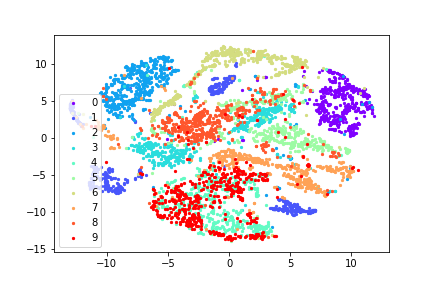
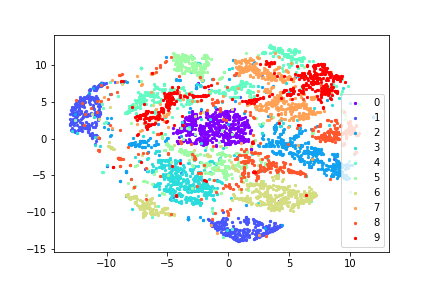
update

diff --git a/README.md b/README.md
@@ -1,5 +1,5 @@
 # Variational Autoencoder
-Implement [Auto-Encoding Variational Bayes](https://arxiv.org/pdf/1312.6114.pdf), you can see more detial in the paper
+Implement [Adversarial Autoencoder](https://arxiv.org/pdf/1511.05644.pdf), you can see more detial in the paper
 ## Setting
 - Tensorflow 0.11
 - MNIST Dataset
@@ -7,9 +7,8 @@ Implement [Auto-Encoding Variational Bayes](https://arxiv.org/pdf/1312.6114.pdf)
 
 
 ## Result
-- z_dim = 2
+- z_dim = 50
 - Test on 5000 examples of MNIST Test Dataset
-- epoch = 100, minibatch = 100
 
-
+![mnist_test](Result/mnist_test.png)
 
